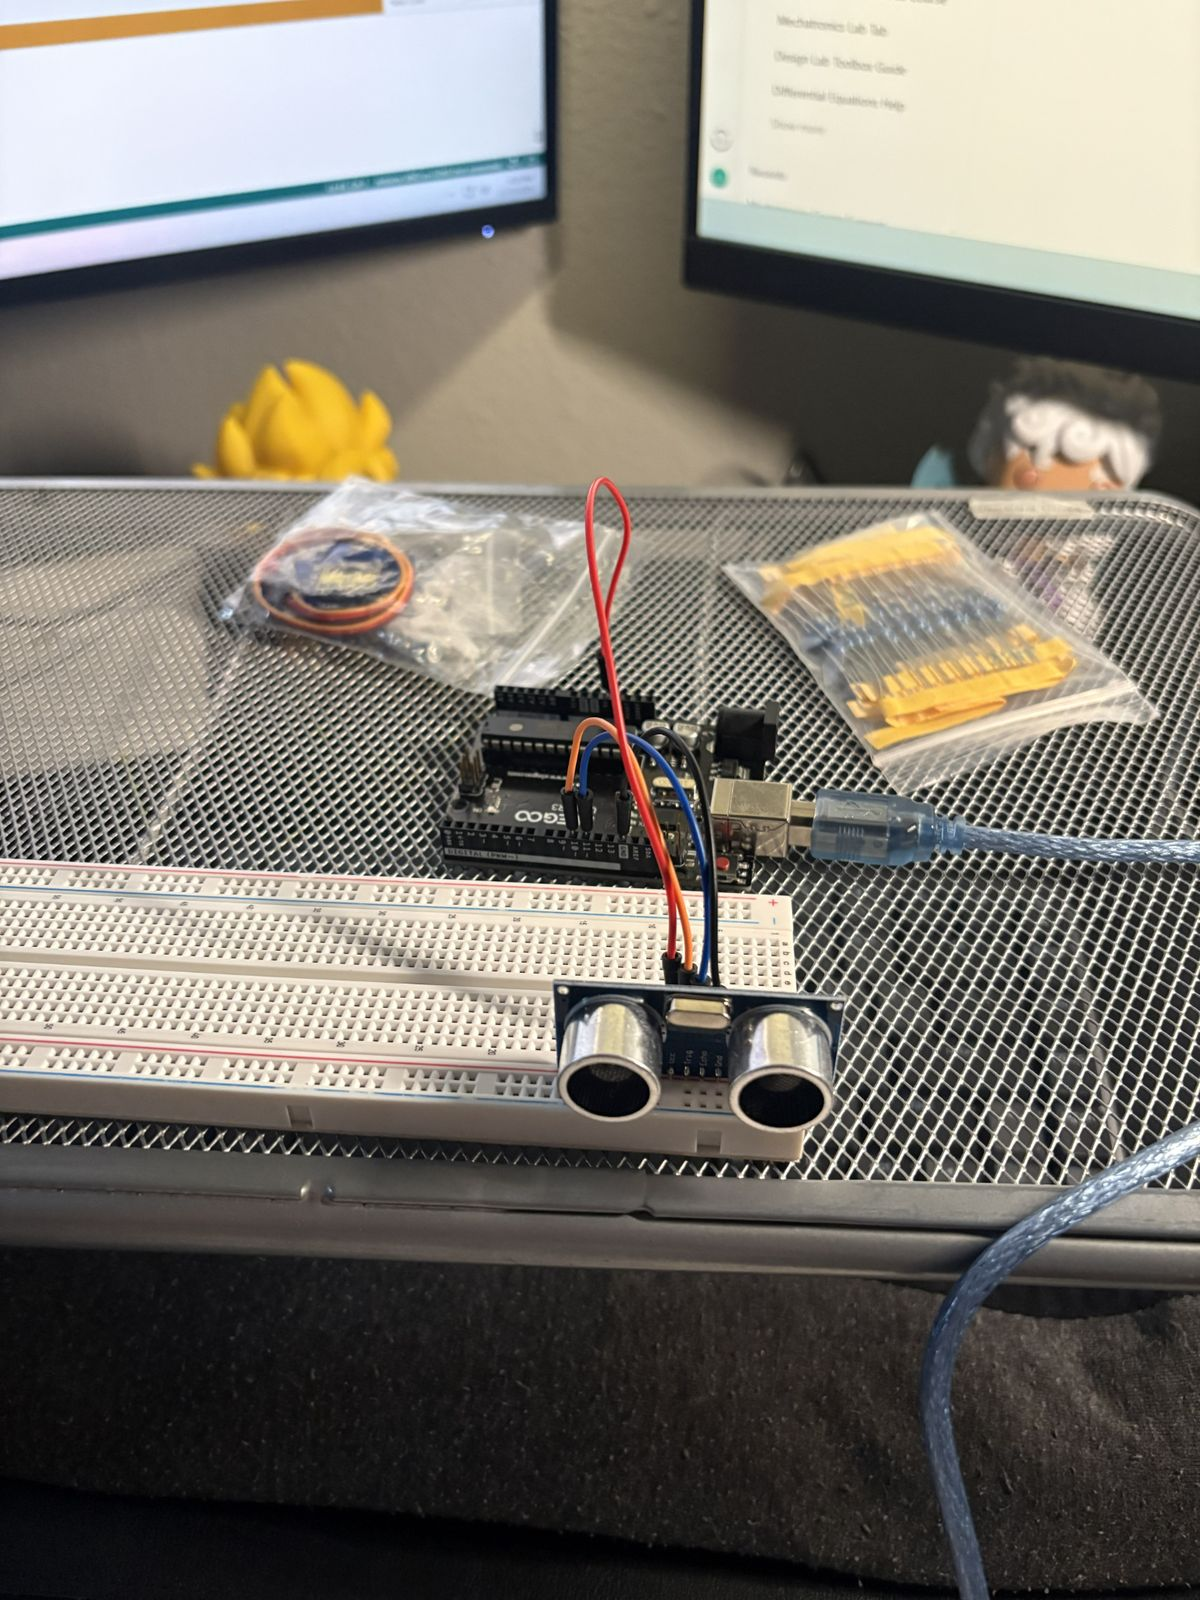
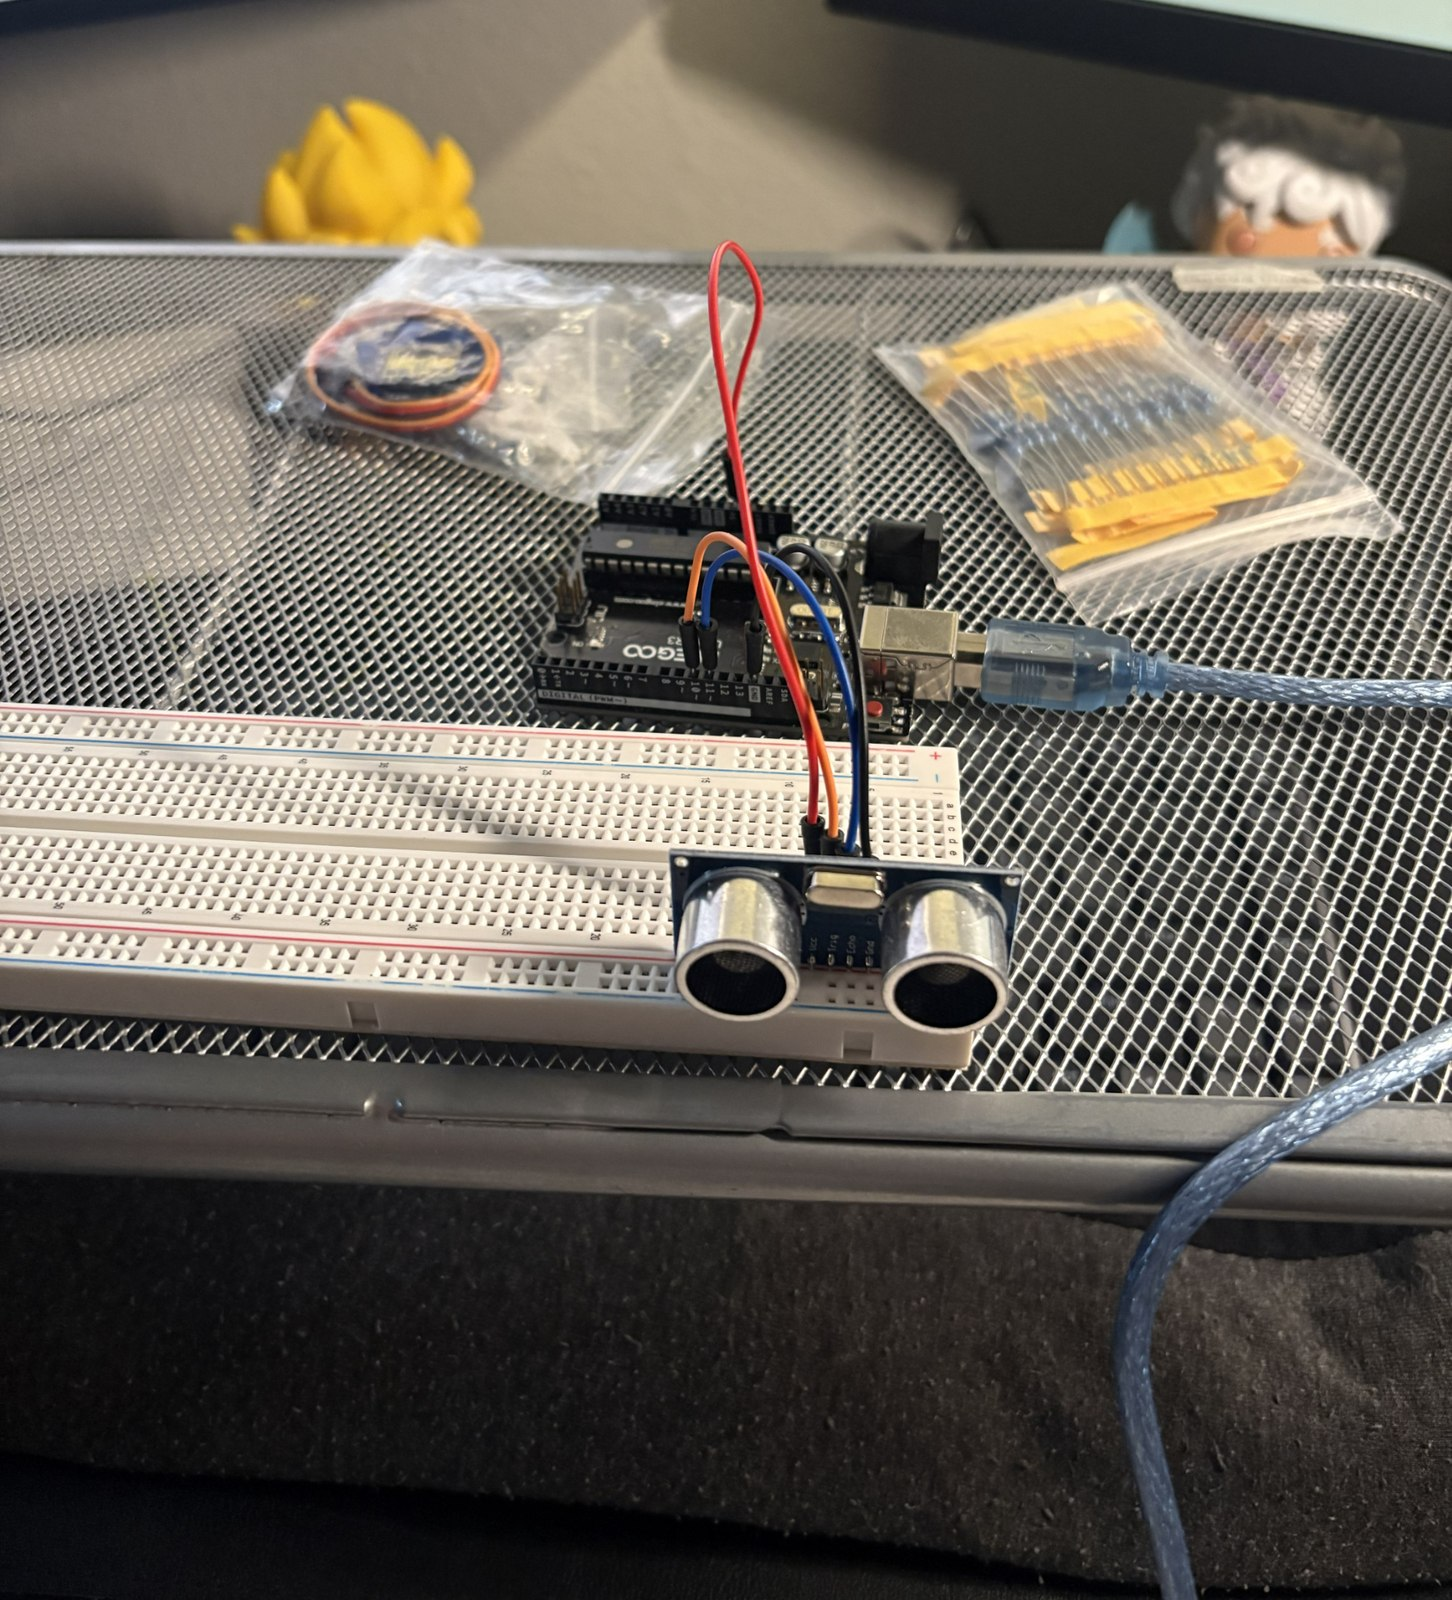
Update website content

diff --git a/index.html b/index.html
@@ -21,20 +21,20 @@
 <li><a href="#code">Code</a></li>
 <li><a href="#reflection">Reflection and Future Improvements</a></li>
 <li><a href="#checkin-1">Project Progress Check In #1 (due November 23)</a></li>
-<li><a href="#checkin-2">Project Progress Check In #2 (due November 30)</a></li>
+<li><a href="#checkin-2">Project Progress Check In #2 (November 30)</a></li>
 </ul></nav>
 
 <section id="project-description"><h2>Project Description</h2>
-<p>The <strong>Smart Automatic Gate</strong> is an Arduino-based model designed to open a lightweight barrier when an object approaches. The planned system uses an HC-SR04 ultrasonic distance sensor to detect objects and an SG90 micro servo to raise or lower a gate arm.</p>
-<p><strong>Minimum viable project:</strong> detect objects approximately 15 cm from the sensor, open the gate automatically, keep it open while the object is nearby, and close after the detection area has remained clear for a short delay.</p>
-<p><strong>Stretch goals:</strong> LED status indicators, a manual pushbutton override, and more stable distance measurements to prevent unnecessary gate movement.</p>
-<p class="muted small">Project status (November 23): HC-SR04 distance sensing and SG90 servo actuation have been tested separately and integrated in an Arduino breadboard prototype. The final physical gate arm has not yet been built.</p>
+<p>For my final project, I’m building a small automatic parking barrier. An HC-SR04 ultrasonic sensor measures how close an object is, and an Arduino Uno moves an SG90 servo when the object enters the detection range. The electronic control is working; the physical barrier arm is still in progress.</p>
+<p><strong>My goal:</strong> detect objects approximately 15 cm from the sensor, open the gate automatically, keep it open while the object is nearby, and close after the detection area has remained clear for a short delay.</p>
+<p><strong>Ideas to add later:</strong> LED status indicators, a manual pushbutton override, and more stable distance measurements to prevent unnecessary gate movement.</p>
+<p class="muted small">Status — November 23: HC-SR04 distance sensing and SG90 servo actuation have been tested separately and integrated in an Arduino breadboard prototype. The final physical gate arm has not yet been built.</p>
 </section>
 
 <section id="video-demo"><h2>Video Demo</h2>
-<p><strong>November 23 integration test:</strong> the HC-SR04 and SG90 are connected to the Arduino, and a hand is moved toward and away from the ultrasonic sensor to demonstrate distance-triggered control. This is an electronics prototype; a physical barrier arm will be added later.</p>
+<p><strong>November 23 integration test:</strong> This clip shows the Arduino, ultrasonic sensor, and servo connected for a distance-based control test. The barrier arm has not been attached yet.</p>
 <video controls playsinline preload="metadata" style="width:100%;max-width:380px;border-radius:8px;background:#111" src="assets/integration-test.mp4">Your browser does not support inline video. <a href="assets/integration-test.mp4">Open the demo video</a>.</video>
-<p class="small muted">Integration-test clip: approximately 18 seconds. Final assembled-gate demonstration will be added later.</p>
+<p class="small muted">Integration-test clip: approximately 18 seconds. I will add the complete gate demonstration after assembling the barrier arm.</p>
 </section>
 
 <section id="system-diagram"><h2>System Diagram</h2>
@@ -43,7 +43,7 @@
 </section>
 
 <section id="circuit-information"><h2>Circuit Information</h2>
-<p>The table below lists the connections used in the November 23 sensor-and-servo prototype. A hand-drawn schematic and mechanical gate arm will be added for the final build.</p>
+<p>The table below lists the connections used in the November 23 sensor-and-servo prototype. I will draw the final schematic and attach the physical gate arm as the build progresses.</p>
 <table><thead><tr><th>Component</th><th>Pin / connection</th><th>Purpose</th></tr></thead><tbody>
 <tr><td>HC-SR04 VCC / GND</td><td>5V / GND</td><td>Sensor power</td></tr>
 <tr><td>HC-SR04 TRIG</td><td>Arduino D10</td><td>Send ultrasonic pulse</td></tr>
@@ -51,127 +51,40 @@
 <tr><td>SG90 orange (signal)</td><td>Arduino D9</td><td>Position control</td></tr>
 <tr><td>SG90 red / brown</td><td>Arduino 5V / GND</td><td>Servo power and common ground</td></tr>
 </tbody></table>
-<div class="note"><strong>Hand-drawn schematic:</strong> prepare a hand-drawn schematic for the final gate assembly. The instructor prefers hand-drawn diagrams. A lightly loaded SG90 can often be powered from the Uno, but use a separate regulated 5V supply if the board resets or the servo causes voltage dips; always share ground.</div>
-<p><strong>Planned parts:</strong> Arduino Uno, HC-SR04 ultrasonic sensor, SG90 9g servo, breadboard, jumper wires, USB cable, and cardboard or a lightweight model gate arm. LEDs, resistors, and pushbutton are optional stretch goals.</p>
+<div class="note"><strong>Hand-drawn schematic:</strong> A schematic will accompany the final gate assembly. A lightly loaded SG90 can often be powered from the Uno, but use a separate regulated 5V supply if the board resets or the servo causes voltage dips; always share ground.</div>
+<p><strong>Parts:</strong> Arduino Uno, HC-SR04 ultrasonic sensor, SG90 9g servo, breadboard, jumper wires, USB cable, and cardboard or a lightweight model gate arm. LEDs, resistors, and pushbutton are optional stretch goals.</p>
 </section>
 
 <section id="code"><h2>Code</h2>
-<p>The <a href="firmware/smart_gate.ino">Arduino prototype sketch</a> uses the Servo library and ultrasonic pulse timing to actuate the SG90. The opening threshold is 15 cm; clearing begins at 20 cm; and closing is delayed by 2 seconds once the sensor reports a clear path. These are the settings in the integration sketch used as our test reference; verify exact local source before final submission.</p>
-<details><summary>View Arduino integration sketch</summary><div><pre><code>/*
-  Smart Automatic Gate — HC-SR04 / SG90 Integration Prototype
-  Mechatronics Final Project — Fall 2026
-
-  Wiring:
-    HC-SR04 TRIG -&gt; D10, ECHO -&gt; D11, VCC -&gt; 5V, GND -&gt; GND
-    SG90 signal -&gt; D9, red -&gt; 5V, brown -&gt; GND
-
-  AI assistance: ChatGPT (OpenAI) helped draft and debug the control logic.
-  Libraries: Arduino Servo library. Ultrasonic readings use pulseIn().
-  Prototype only — not a safety-rated real gate.
-  NOTE: No echo is treated as a clear path by this classroom test sketch.
-        A real gate must fail safe on missing sensor data.
-*/
-#include &lt;Servo.h&gt;
-
-const int trigPin = 10;
-const int echoPin = 11;
-const int servoPin = 9;
-const int closedAngle = 0;
-const int openAngle = 90;
-const float openDistance = 15.0;
-const float clearDistance = 20.0;
-const unsigned long closeDelay = 2000;
-
-Servo gateServo;
-bool gateOpen = false;
-bool clearTimerStarted = false;
-unsigned long clearStartTime = 0;
-
-void setup() {
-  pinMode(trigPin, OUTPUT);
-  pinMode(echoPin, INPUT);
-  digitalWrite(trigPin, LOW);
-  Serial.begin(9600);
-  gateServo.attach(servoPin);
-  gateServo.write(closedAngle);
-  Serial.println(&quot;Smart Automatic Gate Started&quot;);
-  Serial.println(&quot;Gate: CLOSED&quot;);
-}
-
-float measureDistance() {
-  digitalWrite(trigPin, LOW);
-  delayMicroseconds(2);
-  digitalWrite(trigPin, HIGH);
-  delayMicroseconds(10);
-  digitalWrite(trigPin, LOW);
-  unsigned long duration = pulseIn(echoPin, HIGH, 25000UL);
-  if (duration == 0) return -1;
-  return duration * 0.0343 / 2.0;
-}
-
-void loop() {
-  float distance = measureDistance();
-  if (distance &lt; 0) {
-    Serial.println(&quot;No echo detected&quot;);
-  } else {
-    Serial.print(&quot;Distance: &quot;);
-    Serial.print(distance);
-    Serial.println(&quot; cm&quot;);
-  }
-
-  if (distance &gt; 0 &amp;&amp; distance &lt;= openDistance) {
-    clearTimerStarted = false;
-    if (!gateOpen) {
-      gateServo.write(openAngle);
-      gateOpen = true;
-      Serial.println(&quot;GATE OPENING&quot;);
-    }
-  } else if (gateOpen &amp;&amp; (distance &lt; 0 || distance &gt;= clearDistance)) {
-    if (!clearTimerStarted) {
-      clearStartTime = millis();
-      clearTimerStarted = true;
-      Serial.println(&quot;Path clear - waiting 2 seconds&quot;);
-    }
-    if (millis() - clearStartTime &gt;= closeDelay) {
-      gateServo.write(closedAngle);
-      gateOpen = false;
-      clearTimerStarted = false;
-      Serial.println(&quot;GATE CLOSING&quot;);
-    }
-  } else {
-    clearTimerStarted = false;
-  }
-  delay(100);
-}
-</code></pre></div></details>
-<p class="small muted">AI acknowledgement: ChatGPT (OpenAI) assisted with drafting and debugging the prototype sketch; the Arduino Servo library is also used.</p>
+<p>The Arduino program reads the ultrasonic sensor and controls the SG90 servo based on distance. It opens the gate when an object is within 15 cm. After the distance is above 20 cm for two seconds, it returns the servo to the closed position.</p>
+<p><a href="firmware/smart_gate.ino" download>View or download the Arduino sketch (.ino)</a></p>
 </section>
 
 <section id="reflection"><h2>Reflection and Future Improvements</h2>
-<p><strong>Interim reflection:</strong> The SG90 servo worked with the Servo Sweep example, and the HC-SR04 returned distance readings in centimeters in the Serial Monitor. We then combined both components in a breadboard prototype and recorded a short integration demonstration. Testing each component separately made integration easier to troubleshoot.</p>
-<p><strong>Future improvements:</strong> attach a lightweight gate arm; validate repeatable open/close operation with the arm installed; filter noisy or missing sensor readings; optionally add LED indicators or a manual override. The classroom model is not suitable for use as a real access-control gate.</p>
+<p><strong>What I learned:</strong> I first tested the SG90 with the Arduino Servo Sweep example, then checked the HC-SR04 readings in the Serial Monitor. After each part worked on its own, I connected them to the same Arduino and recorded the response. Testing one part at a time made it much easier to identify wiring and code issues.</p>
+<p><strong>Next improvements:</strong> attach a lightweight gate arm; validate repeatable open/close operation with the arm installed; filter noisy or missing sensor readings; optionally add LED indicators or a manual override. This prototype is only a demonstration model, not a gate for real-world access control.</p>
 </section>
 
 <section id="checkin-1"><details open><summary>Project Progress Check In #1 (November 23)</summary><div>
 <h3>Progress and results</h3>
-<p>The project is on schedule and has advanced beyond the initially planned individual component tests. The SG90 servo was tested using Arduino's Servo Sweep example. The HC-SR04 sensor was connected to the Arduino Uno and tested separately: the Serial Monitor displayed changing distance measurements as a hand moved near the sensor. After both individual tests, the sensor and servo were wired together and an approximately 18-second integration demonstration was recorded. The physical barrier arm has not yet been built.</p>
+<p>The project is on schedule, and I made more progress than I originally expected at this stage. I tested the SG90 with Arduino's Servo Sweep example. I also tested the HC-SR04 separately: the Serial Monitor displayed changing distance measurements as a hand moved near the sensor. After those tests, I connected the sensor and servo together and recorded an approximately 18-second demonstration. The physical barrier arm has not yet been built.</p>
 <div style="display:flex;gap:16px;flex-wrap:wrap;align-items:flex-start">
 <figure style="margin:6px 0;flex:1 1 240px"><img src="assets/ultrasonic-test-setup.jpg" alt="Arduino Uno wired to HC-SR04 for distance sensor test" style="width:100%;max-width:440px;border-radius:6px"/><figcaption class="small muted">HC-SR04 sensor and Arduino Uno test setup</figcaption></figure>
 <figure style="margin:6px 0;flex:1 1 240px"><img src="assets/ultrasonic-measure.jpg" alt="Arduino Serial Monitor displaying live HC-SR04 distance measurements" style="width:100%;max-width:440px;border-radius:6px"/><figcaption class="small muted">Serial Monitor showing changing distance measurements</figcaption></figure>
 </div>
 <p><strong>Video evidence:</strong> See the integration-test recording in the <a href="#video-demo">Video Demo</a> section.</p>
 <h3>Research and comparison</h3>
-<p>SunFounder's <a href="https://www.sunfounder.com/pages/arduino-automatic-barrier-gate-project-with-ultrasonic-sensor-v2" target="_blank" rel="noopener noreferrer">Arduino Automatic Barrier Gate Project with Ultrasonic Sensor V2</a> shows a similar sensor-controlled servo barrier, with a traffic-light LED module and display. Our current prototype uses an HC-SR04 and SG90 with simpler distance-triggered control, without indicators or a completed gate arm. This source provides ideas for later improvements, but the commercial tutorial is not evidence that our own mechanical system has been completed.</p>
+<p>SunFounder's <a href="https://www.sunfounder.com/pages/arduino-automatic-barrier-gate-project-with-ultrasonic-sensor-v2" target="_blank" rel="noopener noreferrer">Arduino Automatic Barrier Gate Project with Ultrasonic Sensor V2</a> shows a similar sensor-controlled servo barrier, with a traffic-light LED module and display. My current design uses an HC-SR04 and SG90 with basic distance-triggered control, without indicators or a completed gate arm. I may add LED status indicators after the gate mechanism is complete.</p>
 <p class="small muted">Reference: SunFounder, <em>Arduino Automatic Barrier Gate Project with Ultrasonic Sensor V2</em>, accessed November 23, 2026.</p>
 <h3>Schedule, risks, and next steps</h3>
-<p>We met the Check-in #1 goal of testing the sensor and servo and additionally recorded an integrated demonstration. Before Check-in #2 on November 30, we plan to attach a lightweight gate arm, test repeatable opening and closing, monitor for unreliable distance readings, and revise the design if the motor struggles under load. Main risks are ultrasonic measurement noise, insufficient servo power, and mounting/alignment of the gate arm.</p>
+<p>I met the Check-in #1 goal of testing both components and also got the distance sensor and servo running together. Before Check-in #2 on November 30, I plan to attach a lightweight gate arm, test repeated opening and closing, and adjust the design if the motor struggles under load. Main risks are ultrasonic measurement noise, insufficient servo power, and mounting/alignment of the gate arm.</p>
 </div></details></section>
 
-<section id="checkin-2"><details><summary>Project Progress Check In #2 (due November 30)</summary><div>
+<section id="checkin-2"><details><summary>Project Progress Check In #2 (November 30)</summary><div>
 <p><strong>Planned next checkpoint:</strong> assemble and test the lightweight physical gate arm; verify sensor-triggered opening and delayed closing with the mechanism attached; and assess reliability, sensor filtering, power requirements, and any revised goals.</p>
-<div class="placeholder">Add November 30 photographs, test results, and observations after testing. Do not treat these as completed yet.</div>
+
 </div></details></section>
 
-<footer>Smart Automatic Gate · Basic E/Mech I · Fall 2026 · Student project template based on the instructor's published page layout, not a copy of its source code.</footer>
+<footer>Smart Automatic Gate · Basic E/Mech I · Fall 2026</footer>
 </main>
 </body></html>

diff --git a/README.md b/README.md
@@ -1,54 +1,15 @@
-# Smart Automatic Gate — Mechatronics Final Project
+# Smart Automatic Gate
 
-GitHub Pages-ready, **one-page** project website inspired by the layout of the course's Google Sites example. The site uses its own original HTML/CSS, not copied Google Sites source.
+An Arduino Uno project that uses an HC-SR04 ultrasonic distance sensor to control an SG90 servo.
 
-## Repository structure
+**Website:** https://abdums.github.io/mechatronics-final-project/
 
-- `index.html` — single-page site with anchor links and all required sections.
-- `assets/system-diagram.svg` — editable system block diagram.
-- `firmware/smart_gate.ino` — **untested initial Arduino draft**, not final code.
-- `.nojekyll` — keeps GitHub Pages serving the static site without Jekyll preprocessing.
+## Files
 
-## Publish on GitHub Pages (web interface)
+- `index.html` — project website
+- `assets/` — photos, block diagram, and integration demonstration
+- `firmware/smart_gate.ino` — Arduino control sketch
 
-1. Create a new public GitHub repository named `smart-automatic-gate` (or another name).
-2. Upload the *contents of this folder* into the repository root (not the ZIP file itself). Commit the changes to `main`.
-3. Open repository **Settings → Pages → Build and deployment**.
-4. Choose **Deploy from a branch**, branch **main**, folder **/(root)**, and **Save**.
-5. Open the address GitHub Pages displays. The usual project-site pattern is `https://YOUR_USERNAME.github.io/smart-automatic-gate/`.
+## Progress — November 23, 2026
 
-## Publish with git on your computer (alternative)
-
-After creating the empty repository on GitHub:
-
-```bash
-git init
-git add .
-git commit -m "Add Smart Automatic Gate website"
-git branch -M main
-git remote add origin https://github.com/YOUR_USERNAME/smart-automatic-gate.git
-git push -u origin main
-```
-
-Then enable Pages in the repository settings using the instructions above.
-
-## Edit before the final submission
-
-- Replace the demo-video placeholder with a working video link/embed.
-- Replace the circuit-planning table with your final tested schematic/photo, if required by the instructor.
-- Update `firmware/smart_gate.ino` with the actual *tested* student-written control code and keep its AI/sample-code attribution.
-- Update the Code section of `index.html` to match the final code (it is a static snapshot).
-- Add actual photos and progress notes for Check-ins 1 and 2.
-- Finalize the reflection based on observed results; do not claim untested functionality.
-
-## Research references
-
-- [SunFounder, Barrier Gate 2.0](https://docs.sunfounder.com/projects/summary-of-fun-projects/en/latest/arduino/barrier_gate2.0.html)
-- [Arduino Project Hub, HC-SR04 sensor guide](https://projecthub.arduino.cc/lucasfernando/ultrasonic-sensor-with-arduino-complete-guide-284faf)
-- [GitHub Pages deployment instructions](https://docs.github.com/en/pages/getting-started-with-github-pages/configuring-a-publishing-source-for-your-github-pages-site)
-
-Copyright: original site design generated for this student project. Reference external tutorials by link rather than copying their content.
-
-
-## November 23 Check-in 1 update
-Tested HC-SR04 and SG90 individually and integrated in the classroom breadboard prototype. Documentation assets are in `assets/`, with an 18-second integration video and two test images. Physical barrier arm is planned for Check-in 2. The code was prepared with ChatGPT assistance; verify against local tested sketch.
+The servo and ultrasonic sensor have been tested individually and together. Next, I will assemble and attach the lightweight barrier arm and check repeated opening and closing.
